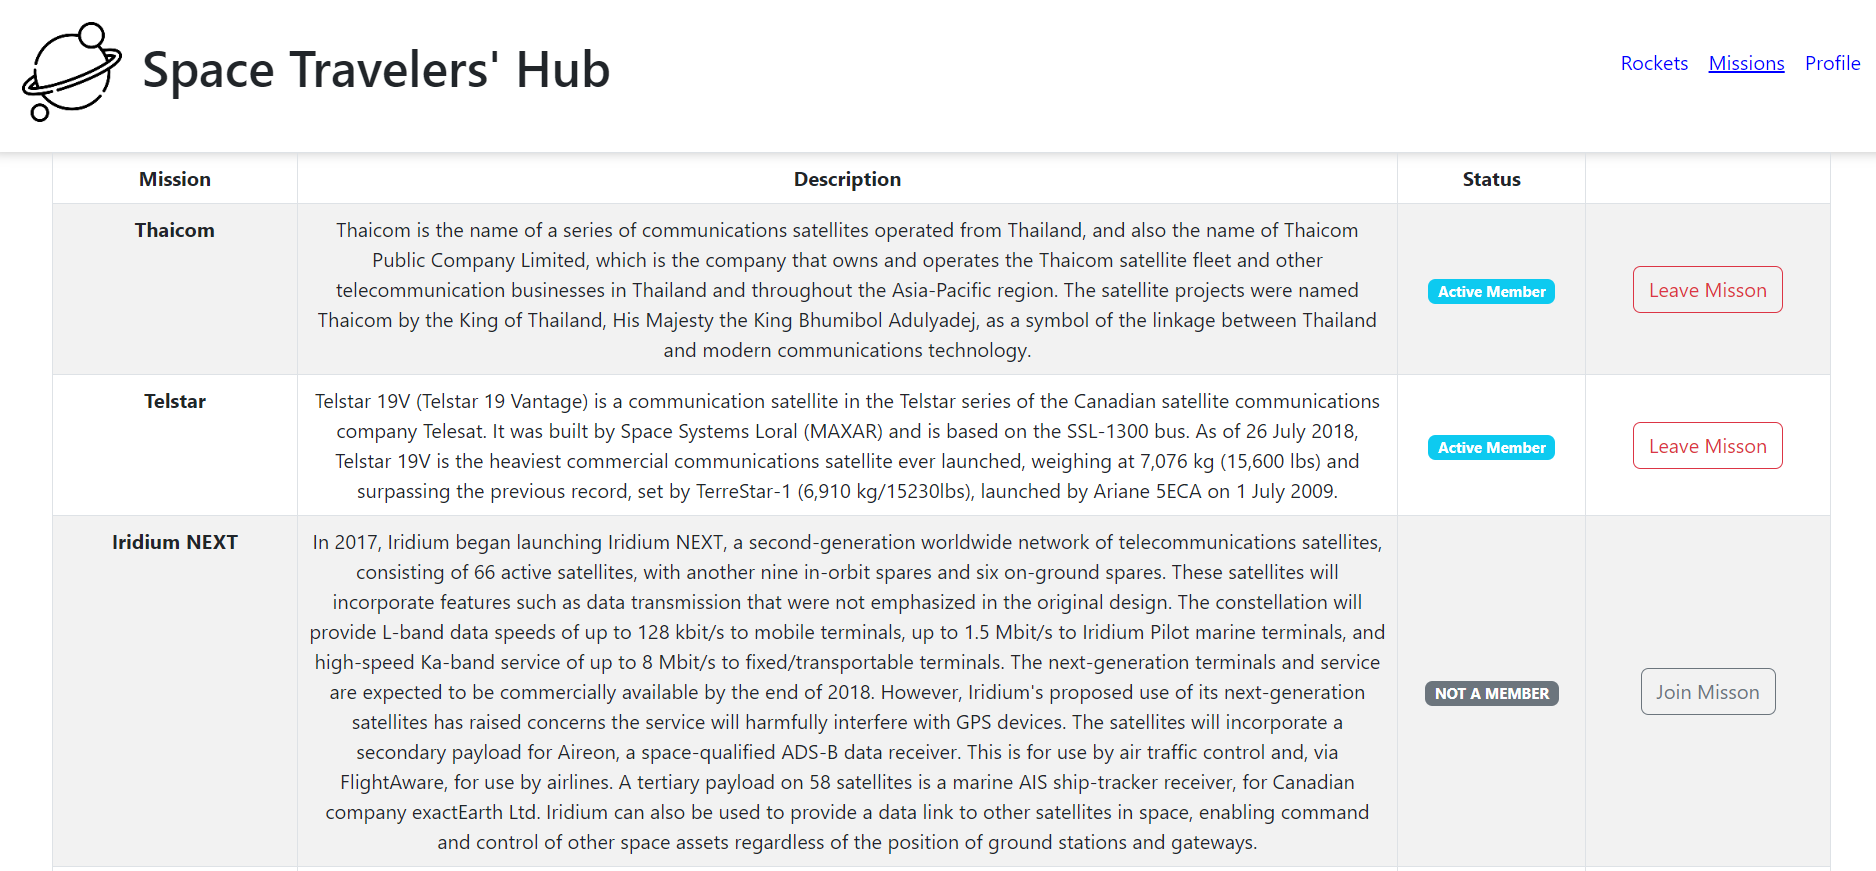
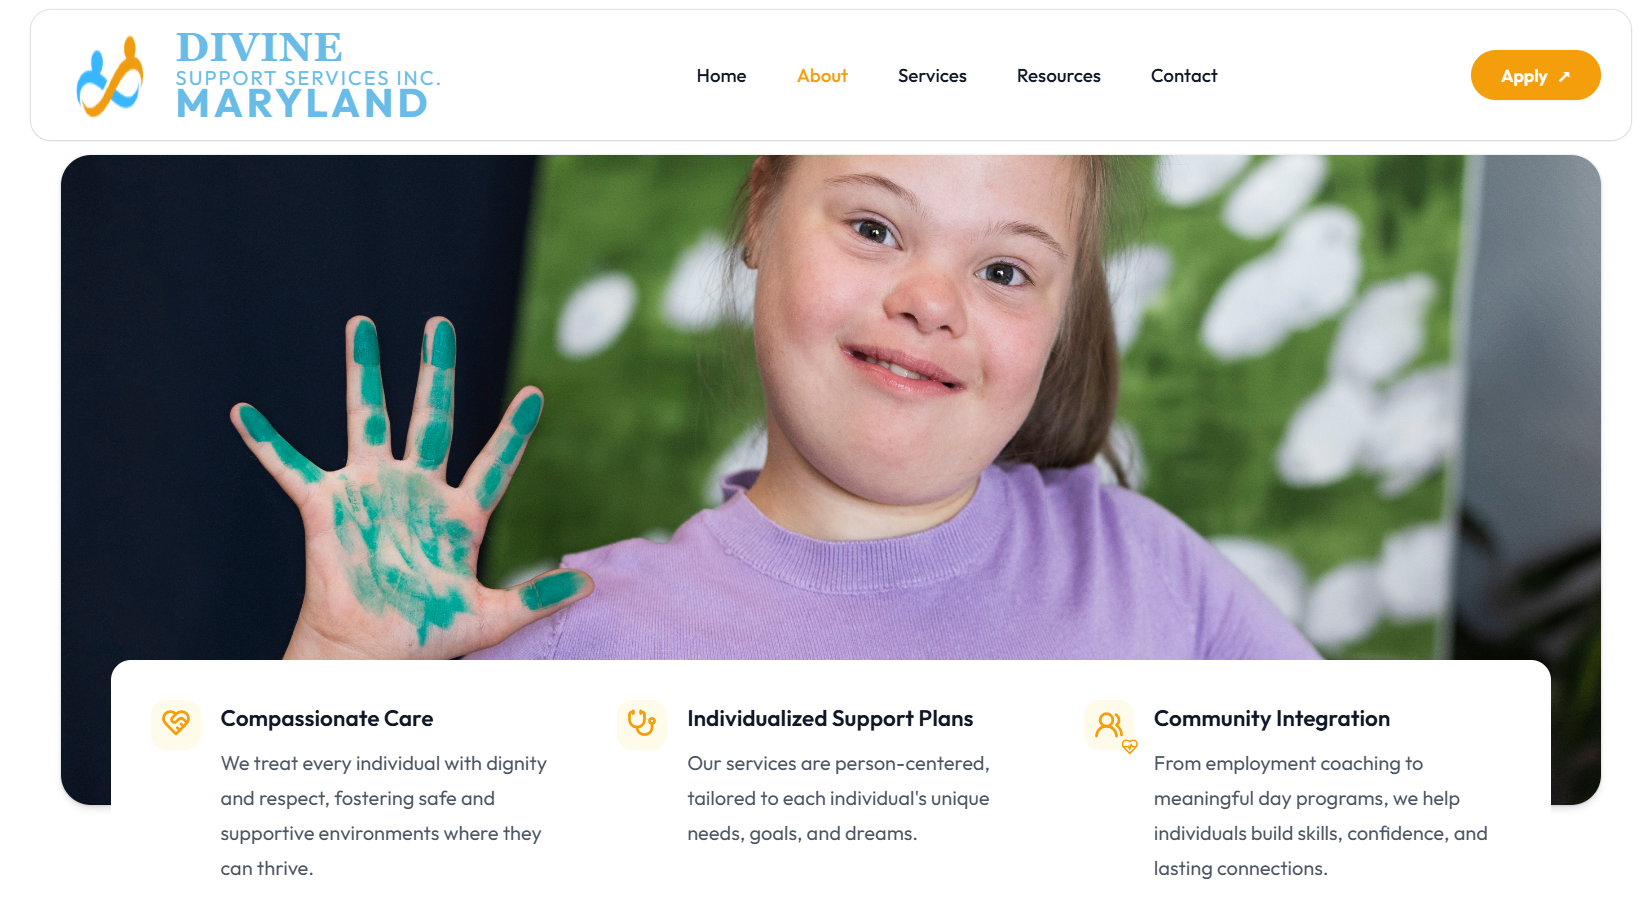
project update

diff --git a/src/data.js b/src/data.js
@@ -33,7 +33,7 @@ import BehanceBrandIcon from './assets/img/brands/behance.png';
 import DribbbleBrandIcon from './assets/img/brands/dribbble.png';
 
 // projects images
-import Project1 from './assets/img/projects/st.webp';
+import Project1 from './assets/img/projects/st.png';
 import Project2 from './assets/img/projects/ss2.webp';
 import Project3 from './assets/img/projects/ss3.webp';
 import Project4 from './assets/img/projects/ss4.webp';
@@ -135,16 +135,16 @@ export const projectsData = [
   {
     id: '1',
     image: Project1,
-    name: 'SpaceTravelers',
-    details: 'A web application for a company that provides commercial and scientific space travel services. The application will allow users to book rockets and join selected space missions.',
+    name: 'Divine Support Services',
+    details: 'Divine Support Solutions is a compassionate care home and support services agency dedicated to providing high-quality, person-centred care for individuals who require assistance to live safely, comfortably, and with dignity. The agency supports older adults, individuals with disabilities, and those with long-term or complex care needs, either within residential care settings or in their own homes.',
     github: 'Github',
     demo: 'Demo',
     screen: Screenshot1,
     techstack1: 'React',
     techstack2: 'Redux Thunk',
     techstack3: 'Bootstrap',
-    git: 'https://github.com/Lancelot-SO/carbnb-frontend',
-    href: 'https://travelers.onrender.com',
+    git: 'https://github.com/Lancelot-SO/divine_support',
+    href: 'https://dss-inc.org/',
     category: 'web development',
   },
   {
